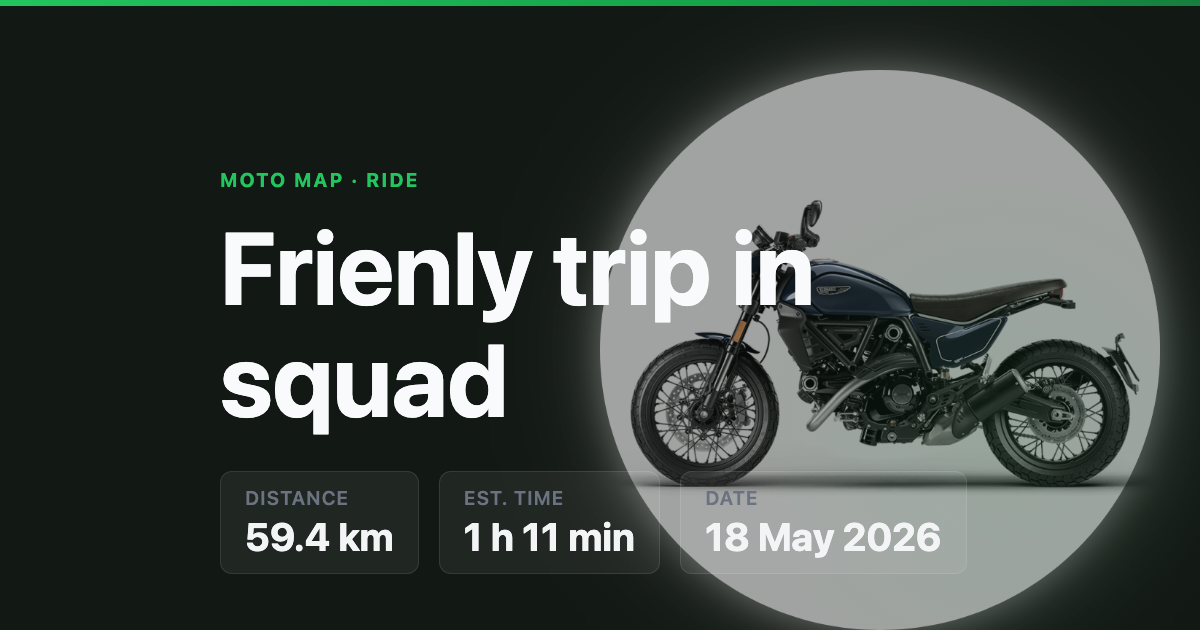
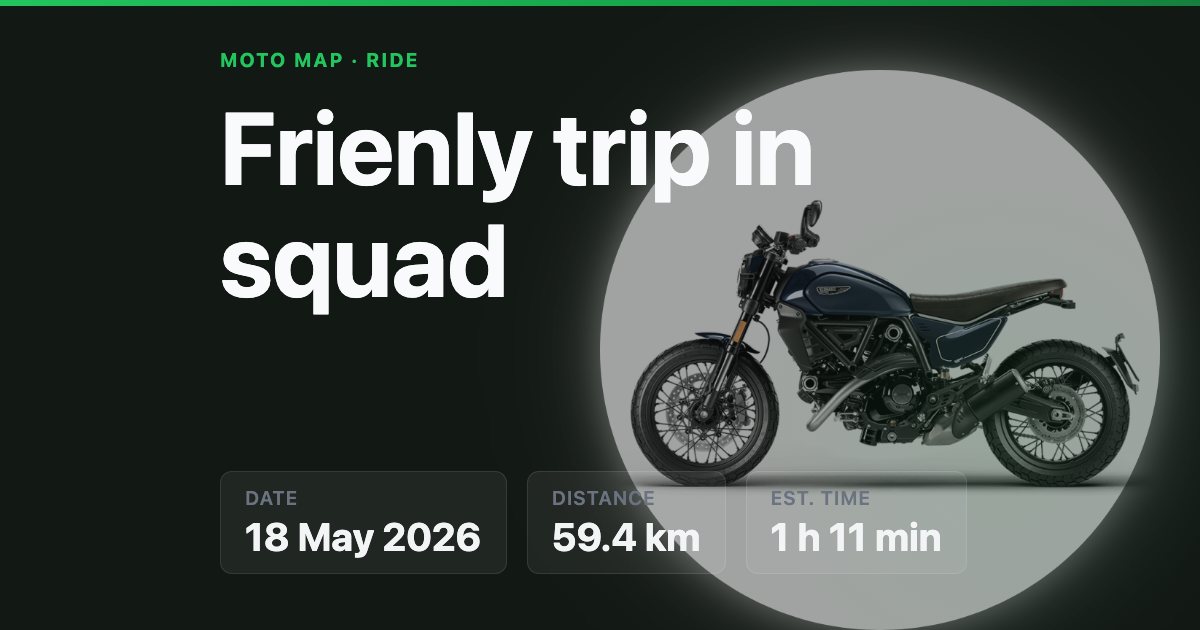
[UPDATE] add rides summary to "My Rides" button with trip statistics

diff --git a/scripts/generate-og-images.js b/scripts/generate-og-images.js
@@ -87,8 +87,8 @@ function formatDate(dateStr) {
  *  - Dark background matching the app sidebar (#121814 at full opacity)
  *  - Green accent line at the top (same #22c55e as the app)
  *  - Motorcycle SVG icon (top-right)
- *  - Large trip title
- *  - Three stat chips: distance · est. time · date
+ *  - "Moto Map · Ride" tag + large trip title pinned to the top
+ *  - Three stat chips pinned to the bottom: date · distance · est. time
  *
  * Font: -apple-system, BlinkMacSystemFont, 'Segoe UI', Roboto, sans-serif
  * (identical to the app's font-family in style.css)
@@ -100,16 +100,16 @@ function buildHtml({ title, distanceFmt, durationFmt, dateFmt, isSiteDefault, mo
   const stats = isSiteDefault ? '' : `
     <div class="chips">
       <div class="chip">
+        <span class="chip-label">Date</span>
+        <span class="chip-value">${dateFmt}</span>
+      </div>
+      <div class="chip">
         <span class="chip-label">Distance</span>
         <span class="chip-value">${distanceFmt}</span>
       </div>
       <div class="chip">
         <span class="chip-label">Est. time</span>
         <span class="chip-value">${durationFmt}</span>
-      </div>
-      <div class="chip">
-        <span class="chip-label">Date</span>
-        <span class="chip-value">${dateFmt}</span>
       </div>
     </div>
   `;
@@ -138,9 +138,9 @@ function buildHtml({ title, distanceFmt, durationFmt, dateFmt, isSiteDefault, mo
     position: relative;
     display: flex;
     flex-direction: column;
-    /* Text/content pinned to the bottom */
-    justify-content: flex-end;
-    padding: 56px 220px;
+    /* Header (tag + title) at the top, stats/subtitle pinned to the bottom */
+    justify-content: space-between;
+    padding: 48px 220px 56px;
     overflow: hidden;
   }
   /* top accent bar — sits above moto image (z-index via stacking context) */
@@ -182,26 +182,24 @@ function buildHtml({ title, distanceFmt, durationFmt, dateFmt, isSiteDefault, mo
     z-index: 3;
   }
   .tag {
+    margin-bottom: 20px;
     font-size: 19.5px;
     font-weight: 700;
     letter-spacing: 0.12em;
     text-transform: uppercase;
     color: #22c55e;
-    margin-bottom: 20px;
   }
   h1 {
     font-size: ${titleSize};
     font-weight: 700;
     line-height: 1.1;
     color: #f9fafb;
-    margin-bottom: 36px;
     max-width: 900px;
     word-break: break-word;
   }
   .subtitle {
     font-size: 39px;
     color: #9ca3af;
-    margin-bottom: 36px;
     max-width: 900px;
     line-height: 1.4;
   }
@@ -241,10 +239,14 @@ function buildHtml({ title, distanceFmt, durationFmt, dateFmt, isSiteDefault, mo
   <!-- Layer 2: moto PNG — behind all content -->
   <img class="moto-icon" src="${motoPngUri}" alt="" />
 
-  <!-- Layer 3: main text content — pinned to bottom -->
+  <!-- Layer 3: header (brand tag + ride name) — pinned to top -->
   <div class="content">
     <div class="tag">Moto Map · Ride</div>
     <h1>${safeTitle}</h1>
+  </div>
+
+  <!-- Layer 3: subtitle / stat chips — pinned to bottom -->
+  <div class="content">
     ${subtitle}
     ${stats}
   </div>

diff --git a/src/components/TripListComponent.js b/src/components/TripListComponent.js
@@ -1,4 +1,12 @@
-import { estimateTripDistance, estimateTripDuration } from '../core/GeoUtils.js';
+import {
+  estimateTripDistance,
+  estimateTripDuration,
+  estimateTripDurationHours,
+  countTripStops,
+} from '../core/GeoUtils.js';
+
+/** Assumed E10 petrol consumption used for the rides summary (litres per 100 km). */
+const FUEL_L_PER_100KM = 4;
 
 /**
  * Builds a Google Maps Directions URL for the given trip waypoints.
@@ -37,6 +45,9 @@ function buildGoogleMapsUrl(waypoints) {
  * Dispatches:
  *  - `trip-select` — CustomEvent with `detail: { id: string | null }`
  *    when the user clicks a trip item (null when deselecting the active one).
+ *  - `rides-summary-change` — CustomEvent with
+ *    `detail: { count, hours, km, liters, coffees }` (totals over all trips)
+ *    after every render and whenever a road distance resolves.
  *
  * SOLID notes:
  *  - SRP: only handles the DOM representation and user interaction for trips.
@@ -93,6 +104,8 @@ export class TripListComponent extends HTMLElement {
     const trip = this.#trips.find(t => t.id === tripId);
     if (trip) trip._roadDistanceKm = km;
 
+    this.#emitSummary();
+
     const li = this.querySelector(`.trip-item[data-trip-id="${tripId}"]`);
     if (!li) return;
 
@@ -114,6 +127,32 @@ export class TripListComponent extends HTMLElement {
   }
 
 
+  /**
+   * Computes totals over all trips and announces them via `rides-summary-change`
+   * so the sidebar can show them on the "My Rides" accordion button.
+   * Called after every render and whenever a road distance resolves.
+   */
+  #emitSummary() {
+    const totals = this.#trips.reduce((acc, trip) => {
+      acc.km      += estimateTripDistance(trip);
+      acc.hours   += estimateTripDurationHours(trip);
+      acc.coffees += countTripStops(trip);
+      return acc;
+    }, { km: 0, hours: 0, coffees: 0 });
+
+    this.dispatchEvent(new CustomEvent('rides-summary-change', {
+      bubbles:  true,
+      composed: true,
+      detail: {
+        count:   this.#trips.length,
+        hours:   totals.hours,
+        km:      totals.km,
+        liters:  totals.km * FUEL_L_PER_100KM / 100,
+        coffees: totals.coffees,
+      },
+    }));
+  }
+
   #render() {
     this.innerHTML = '';
 
@@ -130,6 +169,8 @@ export class TripListComponent extends HTMLElement {
 
     // Restore active state after re-render
     if (this.#activeId) this.setActive(this.#activeId);
+
+    this.#emitSummary();
   }
 
   /** @param {Object} trip */

diff --git a/src/components/AppSidebarComponent.js b/src/components/AppSidebarComponent.js
@@ -81,6 +81,7 @@ export class AppSidebarComponent extends HTMLElement {
         <button class="accordion-header">
           <span>My Rides</span>
           ${AppSidebarComponent.#arrowSvg()}
+          <span class="rides-summary" hidden></span>
         </button>
         <div class="accordion-body">
           <trip-list></trip-list>
@@ -107,6 +108,32 @@ export class AppSidebarComponent extends HTMLElement {
     this.#routePlanner = this.querySelector('route-planner');
     this.#settings     = this.querySelector('app-settings');
     this.#nearbyPlaces = this.querySelector('nearby-places');
+
+    this.addEventListener('rides-summary-change', e => this.#renderRidesSummary(e.detail));
+  }
+
+  /**
+   * Renders the single-row totals (hours, km, litres of E10, cups of coffee)
+   * inside the "My Rides" accordion button.
+   *
+   * @param {{count:number, hours:number, km:number, liters:number, coffees:number}} s
+   */
+  #renderRidesSummary(s) {
+    const el = this.querySelector('.rides-summary');
+    if (!el) return;
+    if (!s.count) { el.hidden = true; return; }
+
+    const stat = (icon, value, unit) =>
+      `<span class="rides-summary-stat">${icon} <b>${value}</b>${unit ? ' ' + unit : ''}</span>`;
+
+    el.innerHTML =
+      stat('⏱', s.hours.toFixed(1), 'h') +
+      stat('🛣', Math.round(s.km).toLocaleString('en-GB'), 'km') +
+      stat('⛽', s.liters.toFixed(1), 'L') +
+      stat('☕', s.coffees, 'cups');
+    el.title = `${s.count} rides · ${s.hours.toFixed(1)} h · ${Math.round(s.km)} km · `
+             + `${s.liters.toFixed(1)} L (4 L/100 km) · ${s.coffees} cups`;
+    el.hidden = false;
   }
 
   #bindAccordion() {

diff --git a/src/core/GeoUtils.js b/src/core/GeoUtils.js
@@ -81,3 +81,28 @@ export function estimateTripDuration(trip, avgSpeedKph = 50) {
   if (min === 0) return `${h} h`;
   return `${h} h ${min} min`;
 }
+
+/**
+ * Estimates the riding duration of a trip in hours (numeric counterpart of
+ * `estimateTripDuration`), using the same distance source and average speed.
+ *
+ * @param {Object} trip
+ * @param {number} [avgSpeedKph=50]
+ * @returns {number} duration in hours
+ */
+export function estimateTripDurationHours(trip, avgSpeedKph = 50) {
+  return estimateTripDistance(trip) / avgSpeedKph;
+}
+
+/**
+ * Counts the visible stops of a trip. A stop is a waypoint with
+ * `isVisible: true` that is neither the first (start) nor the last (end)
+ * waypoint.
+ *
+ * @param {{ waypoints?: {isVisible?: boolean}[] }} trip
+ * @returns {number}
+ */
+export function countTripStops(trip) {
+  const pts = trip.waypoints ?? [];
+  return pts.filter((wp, i) => wp.isVisible && i !== 0 && i !== pts.length - 1).length;
+}

diff --git a/style.css b/style.css
@@ -117,6 +117,45 @@ html, body {
   width: 100%;
 }
 
+/* ── My Rides summary (inside the accordion button, single row) ────────────── */
+
+.accordion-header {
+  flex-wrap: wrap;
+}
+
+.rides-summary {
+  flex: 0 0 100%;
+  display: flex;
+  flex-wrap: nowrap;
+  justify-content: space-between;
+  gap: 6px;
+  margin-top: 8px;
+  font-size: 10px;
+  font-weight: 400;
+  letter-spacing: 0;
+  text-transform: none;
+  color: #9ca3af;
+  text-align: left;
+}
+
+.rides-summary[hidden] {
+  display: none;
+}
+
+.rides-summary-stat {
+  flex: 0 1 auto;
+  min-width: 0;
+  white-space: nowrap;
+  overflow: hidden;
+  text-overflow: ellipsis;
+}
+
+.rides-summary-stat b {
+  color: #22c55e;
+  font-weight: 700;
+  font-variant-numeric: tabular-nums;
+}
+
 .trip-item {
   display: flex;
   flex-direction: column;

diff --git a/src/version.js b/src/version.js
@@ -7,4 +7,4 @@
  * Format: UTC ISO 8601 datetime string (YYYY-MM-DDTHH:MM:SSZ).
  * The UI converts this to the user's local time before display.
  */
-export const APP_VERSION_DATE = '2026-10-05T08:22:24Z';
+export const APP_VERSION_DATE = '2026-10-05T09:29:26Z';

diff --git a/CODEOVERVIEW.md b/CODEOVERVIEW.md
@@ -31,7 +31,7 @@ package.json                                 — devDependencies: puppeteer; scr
 src/core/
   EventEmitter.js                   60 lines — pub/sub base class
   ColorUtils.js                     48 lines — trip color palette
-  GeoUtils.js                       83 lines — haversine, distance, duration
+  GeoUtils.js                      ~106 lines — haversine, distance, duration, stop count
 
 src/data/
   TripRepository.js                 49 lines — fetches trips manifest + files
@@ -338,6 +338,8 @@ assignTripColors(trips: Object[])       // mutates trips; adds trip._color
 haversineKm(a, b) → number             // a,b = { lat, lng }
 estimateTripDistance(trip) → number    // priority: _roadDistanceKm → roadDistanceKm → haversine
 estimateTripDuration(trip, avgSpeedKph = 50) → string   // "1 h 23 min" | "45 min" | "1 h"
+estimateTripDurationHours(trip, avgSpeedKph = 50) → number   // numeric hours
+countTripStops(trip) → number          // waypoints with isVisible:true, excluding first & last
 ```
 
 ---
@@ -382,6 +384,7 @@ reset()                                                      // restores site-le
 - Run: `npm run generate-og` (requires `npm install --save-dev puppeteer` once).
 - Re-run whenever a new trip JSON is added.
 - Template layout: text 1.5× scale (title 78/90/102 px, chips/subtitle 39 px); card horizontal padding 150 px; content max-width 900 px.
+- Layout: "Moto Map · Ride" tag + ride title form a header block at the top; chips (or default subtitle) pinned to the bottom (card is flex column, space-between). Chip order: Date → Distance → Est. time.
 
 ---
 
@@ -421,6 +424,7 @@ get nearbyPlaces() → NearbyPlacesPanel
 - Accordion state persisted to `localStorage` key `'moto-map:accordion'`; default open `'rides'`
 - Always emits `section-change` on page load (initial state restore)
 - Clicking open section → collapses (null state); clicking closed section → opens
+- "My Rides" header button contains a `.rides-summary` span (single flex row, 10px font: h / km / L E10 / coffees count), filled on `rides-summary-change` from `<trip-list>` via private `#renderRidesSummary(s)`; hidden when there are no trips
 - `<app-settings>` lives in `sidebar-bottom` (not inside accordion body)
 - `<nearby-places>` lives inside the "Plan Route" accordion body
 
@@ -435,10 +439,14 @@ Custom element `<trip-list>`.
 ```js
 setTrips(trips: Object[])             // stores + re-renders; displays newest-first
 setActive(id: string|null)            // toggles .active + .open on items
-updateTripDistance(tripId, km)        // patches badge without full re-render
+updateTripDistance(tripId, km)        // patches badge without full re-render; also refreshes summary card
 ```
 
-**Emits:** `trip-select` — `{ id: string|null }` (null = deselect)
+- Computes totals of hours (`distance / 50 km/h`), km, litres E10 (`FUEL_L_PER_100KM = 4`), coffees (`countTripStops`) in private `#emitSummary()` and emits them; no summary DOM of its own. `AppSidebarComponent.#renderRidesSummary()` renders them in the "My Rides" button.
+
+**Emits:**
+- `trip-select` — `{ id: string|null }` (null = deselect)
+- `rides-summary-change` — `{ count, hours, km, liters, coffees }` — after every render and every `updateTripDistance()`
 
 - Date format: `en-GB` locale `{ day:'numeric', month:'short', year:'numeric' }`
 - Module-level `buildGoogleMapsUrl(waypoints)` builds Google Maps Directions URL

diff --git a/KNOWLEDGE.md b/KNOWLEDGE.md
@@ -472,6 +472,22 @@ Same `PlacesService` approach, specifically for `gas_station` type. Automaticall
 
 ---
 
+## Rides Summary (on the "My Rides" button)
+
+`TripListComponent` computes totals over all trips and emits `rides-summary-change { count, hours, km, liters, coffees }`.
+`AppSidebarComponent.#renderRidesSummary()` renders them as a small-font (10px) **single row** of 4 stats (`.rides-summary`, `display:flex; flex-wrap:nowrap; justify-content:space-between`) inside the "My Rides" `.accordion-header` button (header uses `flex-wrap: wrap`; the row is `flex: 0 0 100%` so it sits under the title). The coffee stat shows only the icon and count (no "cups" unit) to fit the 260px sidebar. Hidden while there are no trips; full text in the element's `title` tooltip.
+
+| Stat | Formula |
+|---|---|
+| Hours | sum of `estimateTripDistance(trip) / 50 km/h` (`estimateTripDurationHours`) |
+| Kilometers | sum of `estimateTripDistance(trip)` (road distance when available) |
+| Litres of E10 | `km * 4 / 100` (`FUEL_L_PER_100KM = 4` in `TripListComponent.js`) |
+| Cups of coffee | `countTripStops(trip)` — waypoints with `isVisible: true`, **excluding first and last** (start/end are not stops) |
+
+The summary is re-emitted by `updateTripDistance()` as `TripRenderer` resolves accurate road distances, so totals start from haversine/`roadDistanceKm` and converge. Hours are an estimate, not real recorded time. The button text is uppercase/letter-spaced by `.accordion-header`, so `.rides-summary` resets `text-transform`/`letter-spacing`.
+
+---
+
 ## Settings System
 
 `AppSettingsComponent` persists its values to `localStorage`. On map load, `App` reads the current values and applies them:
@@ -605,6 +621,8 @@ title length, subtitle and chip values 39 px, tag and chip labels 19.5 px, brand
 horizontal padding is 150 px on both sides (`.card` padding and `.branding { right: 150px }`), so the text
 column is max 900 px wide (`h1` / `.subtitle` `max-width: 900px`). Re-run `npm run generate-og` after
 changing any of these.
+
+**Layout:** the "Moto Map · Ride" tag and the ride title are grouped in a header block at the top of the card (flex column, `justify-content: space-between`), while the stat chips (or site-default subtitle) are pinned to the bottom. Chip order is Date → Distance → Est. time.
 
 ---
 

diff --git a/README.md b/README.md
@@ -81,6 +81,7 @@ There is no server, no database, and no authentication. The entire application i
 - Semi-transparent dark sidebar with backdrop blur, 260px wide, hidden on load and revealed after data is ready.
 - Two **accordion sections**: "My Rides" (open by default) and "My POI".
 - Accordion toggle: clicking an open section closes it; clicking a closed section opens it and closes all others.
+- The **"My Rides" button** shows a compact one-row **summary** of all recorded rides: riding time (hours, at an assumed 50 km/h average), kilometers, litres of E10 petrol (assumed 4 L / 100 km) and cups of coffee (one per visible intermediate stop). Road distances refresh the numbers as they resolve.
 - Trip list items show the trip title and formatted date. The active trip gets a green left border.
 - Clicking a trip expands an inline details panel showing distance, estimated time, date, and an **"Open in Google Maps"** button that opens the ride as a Directions route in a new tab.
 - POI list items show an emoji icon, title, and truncated description. The active POI is highlighted similarly.
